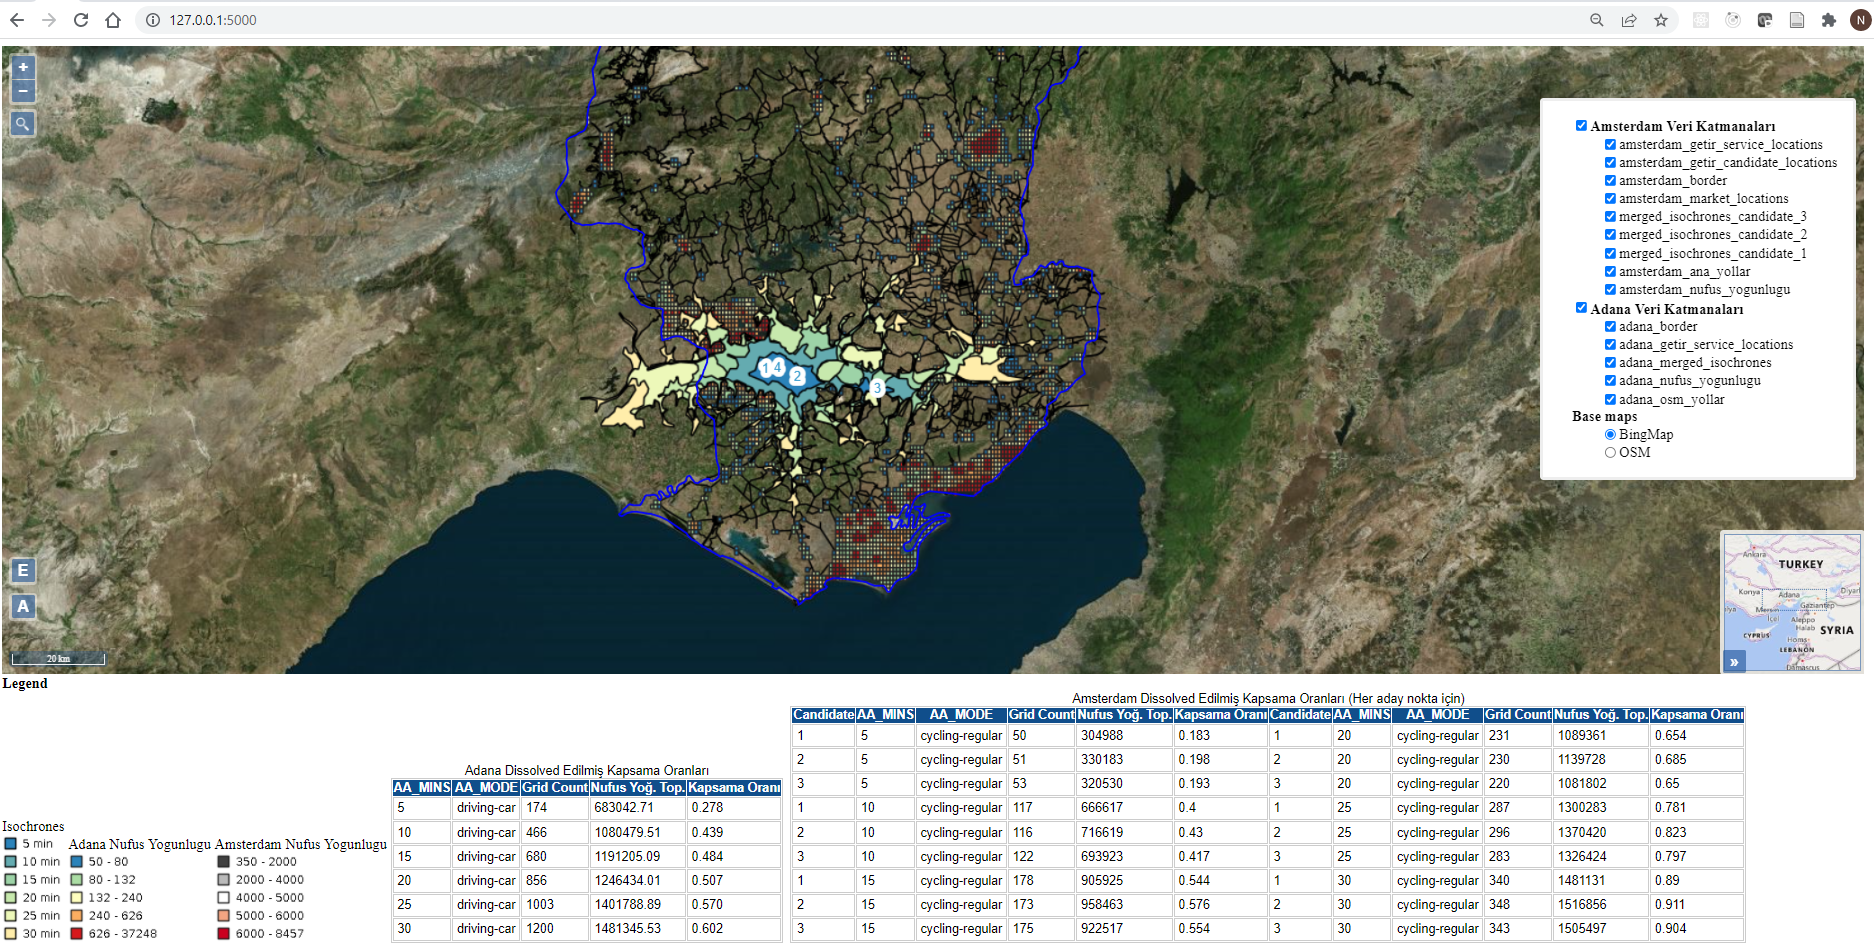
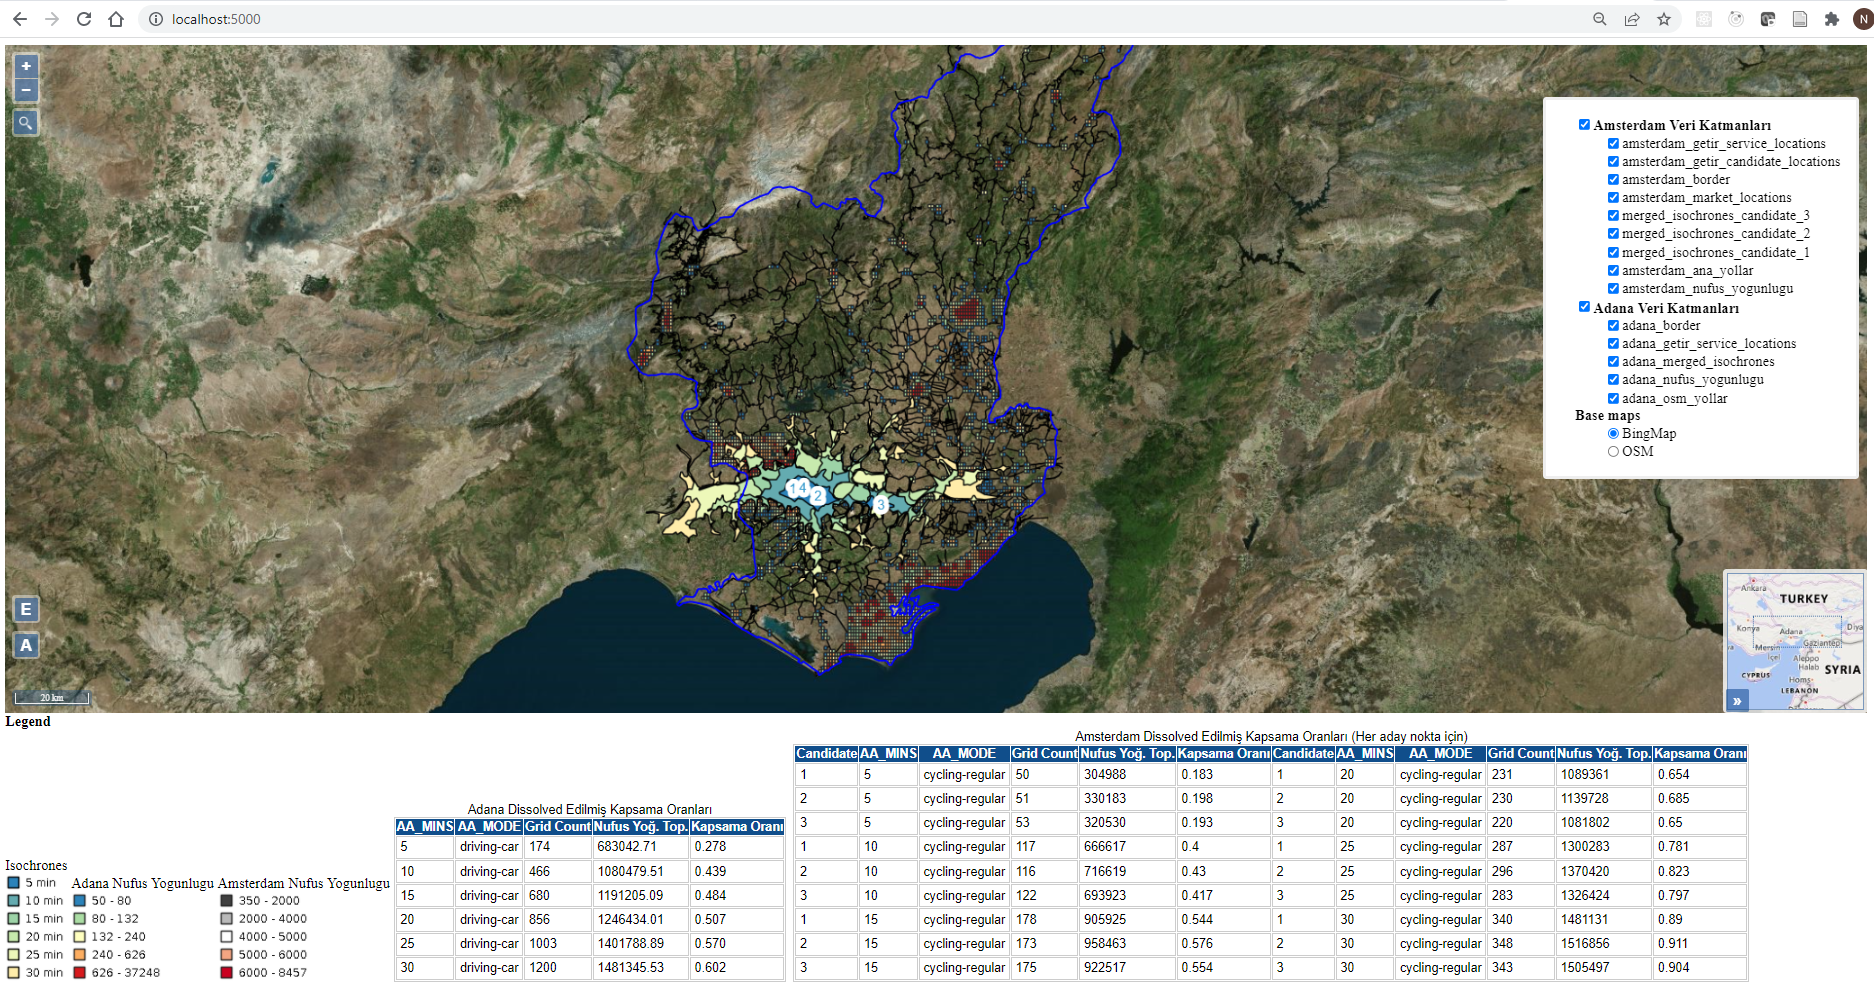
Duzelt: Docker-compose açıklamalar duzeltildi

diff --git a/flask/templates/index.html b/flask/templates/index.html
@@ -325,7 +325,7 @@
     className: "adana-zoom-extent", //'ol-zoom-extent'
     tipLabel: "Haritayı Adana'ya Merkezle",
     extent: ol.proj.transformExtent(
-      [24, 36, 48, 42],
+      [34.770, 36, 36.637, 38],
       "EPSG:4326",
       "EPSG:3857"
     ),
